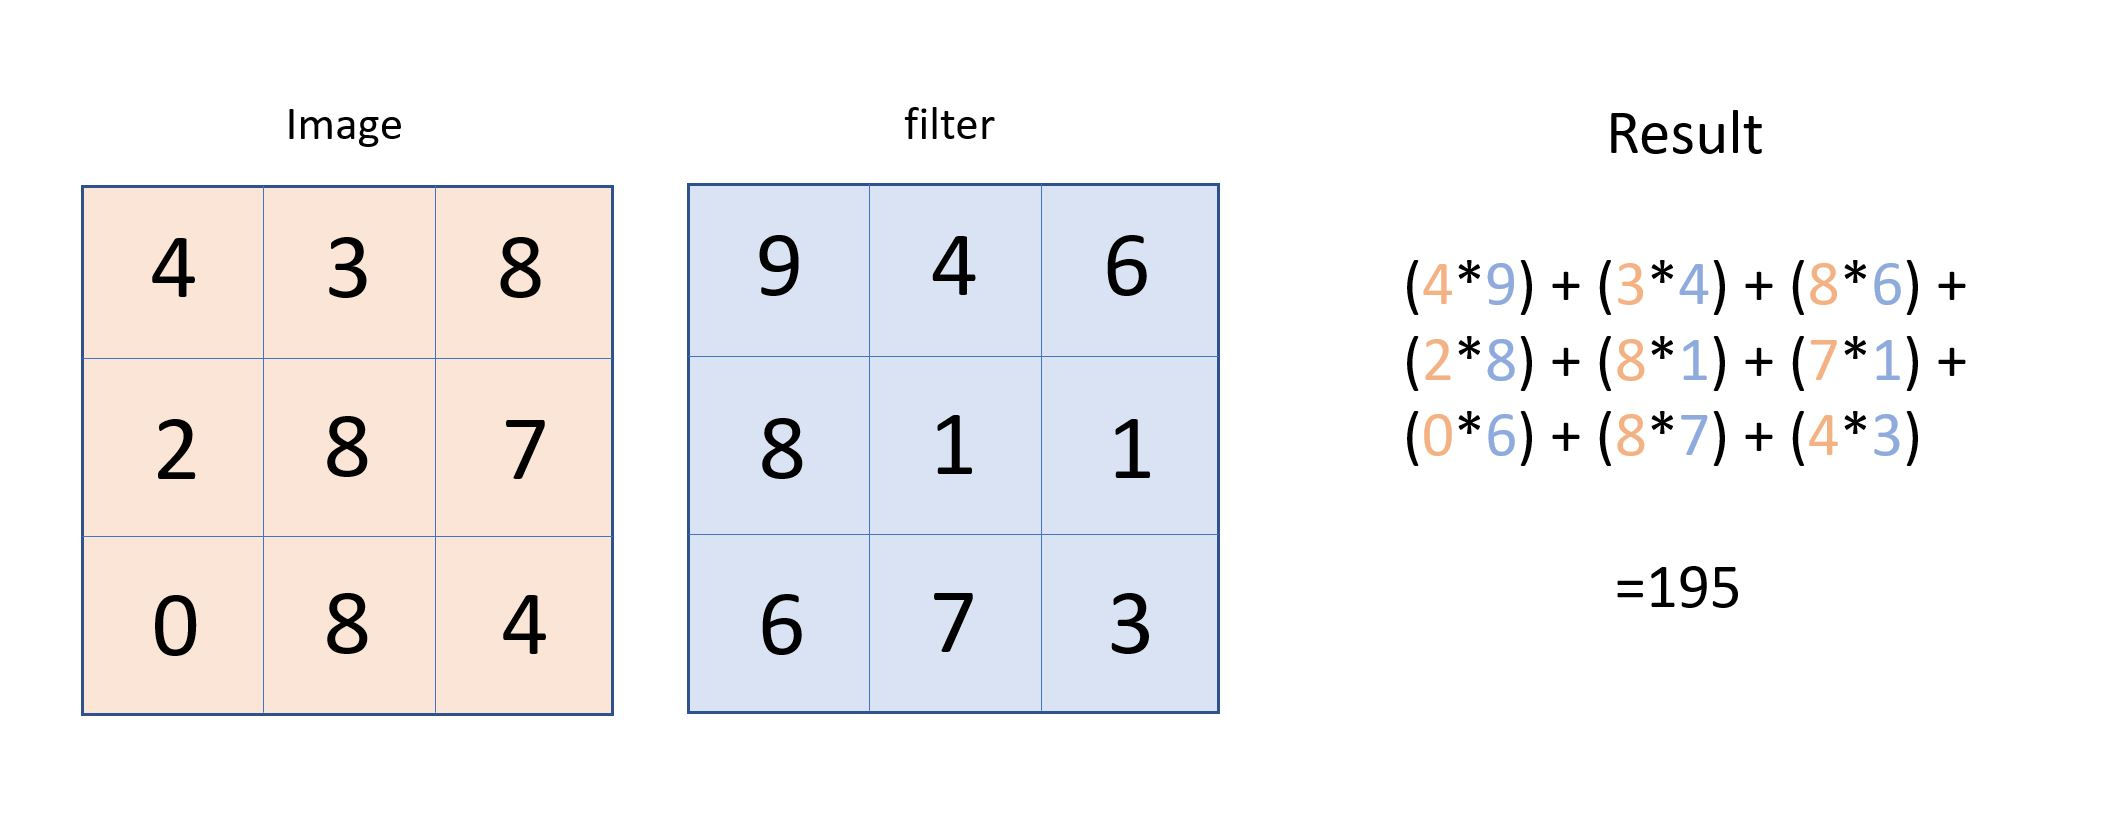
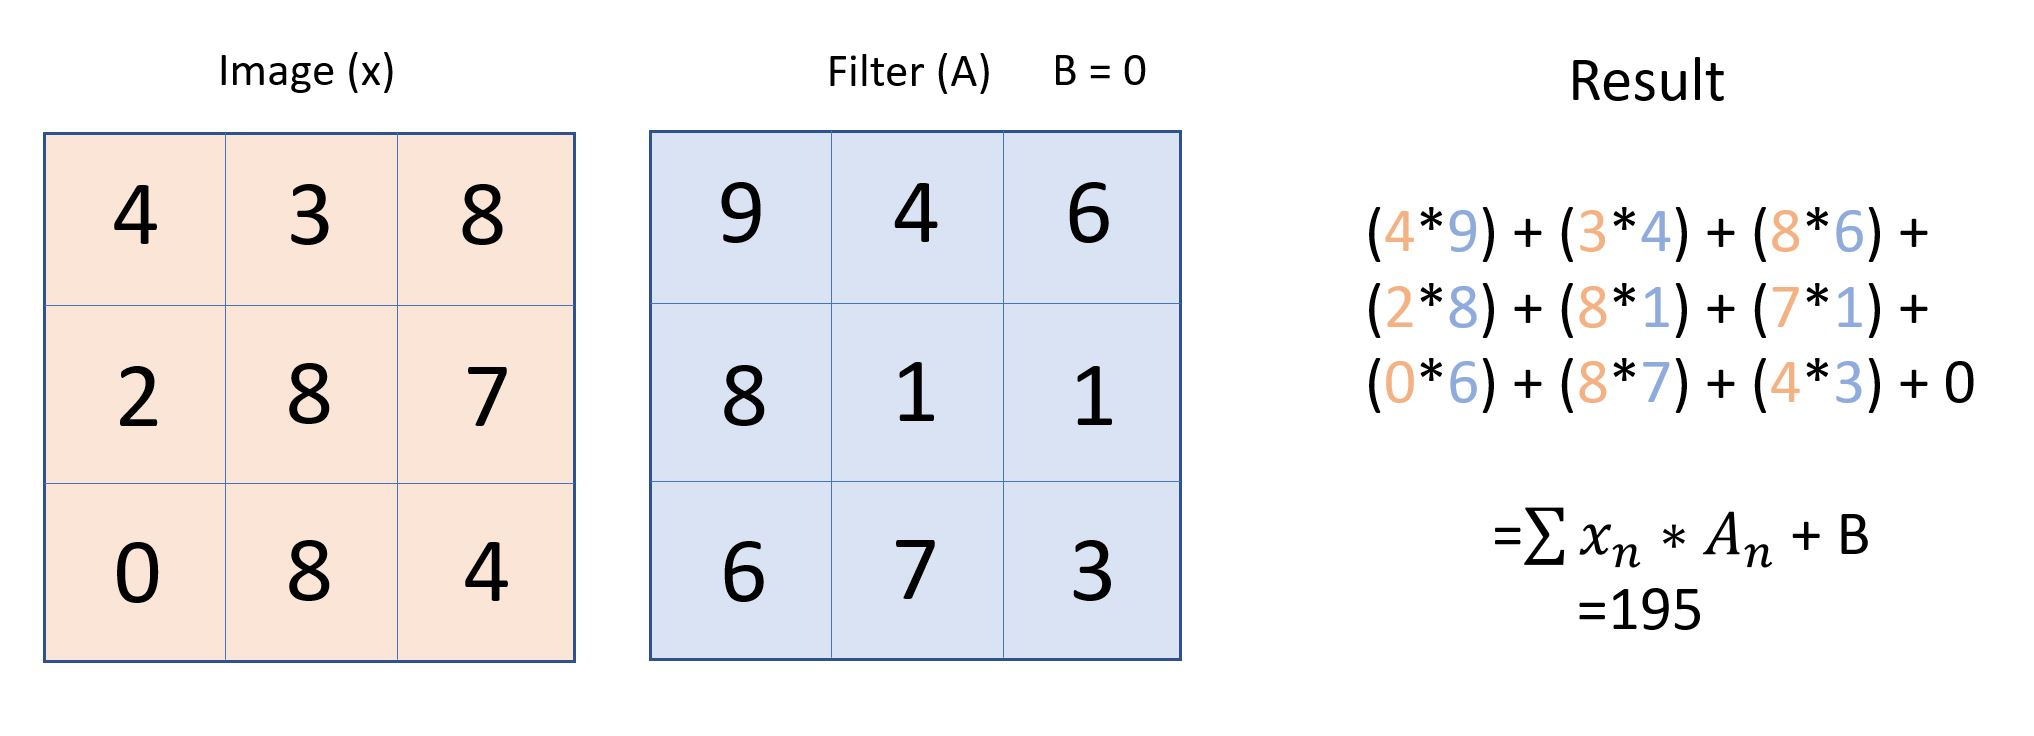
quick commit

diff --git a/README.md b/README.md
@@ -7,6 +7,7 @@ I wrote this article after watching [Andrej Karpathy's lecture](https://www.yout
 Image recognition is the task of taking an image and labelling it. For us humans, this is one of the first skills we learn from the moment we are born and is one that comes naturally and effortlessly. By the time we reach adulthood we are able to immediately recognize patterns and put labels onto objects we see. These skills to quickly identify images, generalized from prior knowledge, are ones that we do not share with our machines.
 
 <p align="center"><img src="https://naushadsblog.files.wordpress.com/2014/01/pixel.gif", width="360"></p>
+<p align="center">Fig 0.0 how a machine 'views' a picture</p>
 
 When a computer sees an image, it will see an array of pixel values, each between a range of 0 to 255. These values while meaningless to us are the only input available to a machine. No one knows how exactly we living beings process images but scientists today have figured out a technique to simulate this process, albeit at a basic level. We call this technique deep learning.
 
@@ -33,14 +34,17 @@ Image recognition used to be done using much simpler methods such as linear regr
 ### CNNs explained
 But first, let us understand what a convolution is without relating it to any of the brain stuff.
 
-#### The mechanical part
+#### The mathematical part
 
 <p align="center"><img src="/imgs/input-image-dimension.JPG", width="240"></p>
+<p align="center">Fig 1.0 simplified depiction of a 32x32x3 image</p>
 
-A typical input image will be broken down into it's individual pixel components. In the picture above, we have a 32x32 pixel picture which has a R, G, and B value attached to each pixel, therefore a 32x32x3 input.
+A typical input image will be broken down into it's individual pixel components. In the picture above, we have a 32x32 pixel picture which has a R, G, and B value attached to each pixel, therefore a 32x32x3 input, Also known as an input with 32 height, 32 width, and 3 depth.
 
 <p align="center"><img src="/imgs/filtering.JPG", width="360"></p>
+<p align="center">Fig 1.1 applying a 3x3 filter</p>
 <p align="center"><img src="/imgs/filtering-math.JPG", width="720"></p>
+<p align="center">Fig 1.2 filtering in math</p>
 
 A CNN would then take a small 3x3 pixel chunk from the original picture and transform it into a single figure in a process called filtering. This is achieved by multiplying a number to each of the pixel of the original picture and summing it up. A simplified example of how the math is done is as described in the picture above but since we are dealing with an image of depth 3 (number of colors), we need to imagine a 3x3x3 sized mini image being multiplied and sumed up with another 3x3x3 filter. Then by adding another constant term, we are able to attain a single number result from this transformation.
 
@@ -53,6 +57,7 @@ This same filter will then be applied to every single possible 3x3 pixel on the 
 What we are trying to do here is to detect the presence of simple patterns such as horizontal lines and color contrasts from the original picture. The process as described above will output a single number. Typically this number will be either positive or negative. We can image positive as meaning the presence of a certain feature and negative as the absence of the feature.
 
 <p align="center"><img src="/imgs/finding-horizontal-vertical.jpg", width="540"></p>
+<p align="center">Fig 1.3 identifying vertical and horizontal lines through filtering</p>
 
 In the image above, a filter is applied to find vertical and horizontal lines and as we can see, in each of the pictures on the left, only the places where vertical lines are present will show up in white and likewise horizontal lines for the picture on the right.
 
